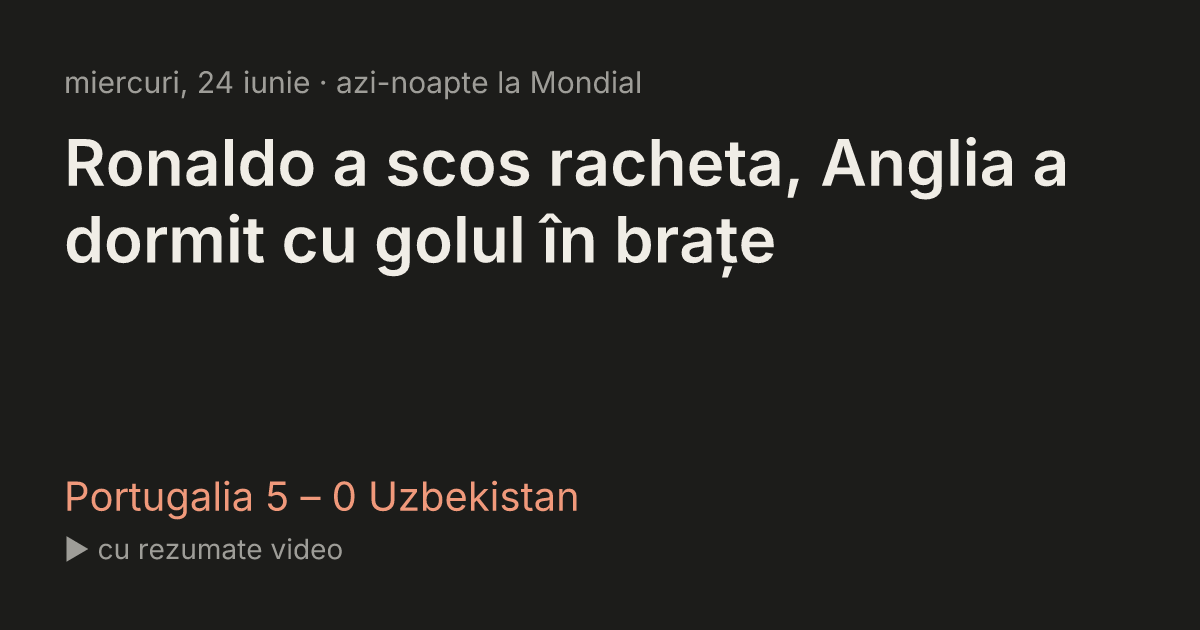
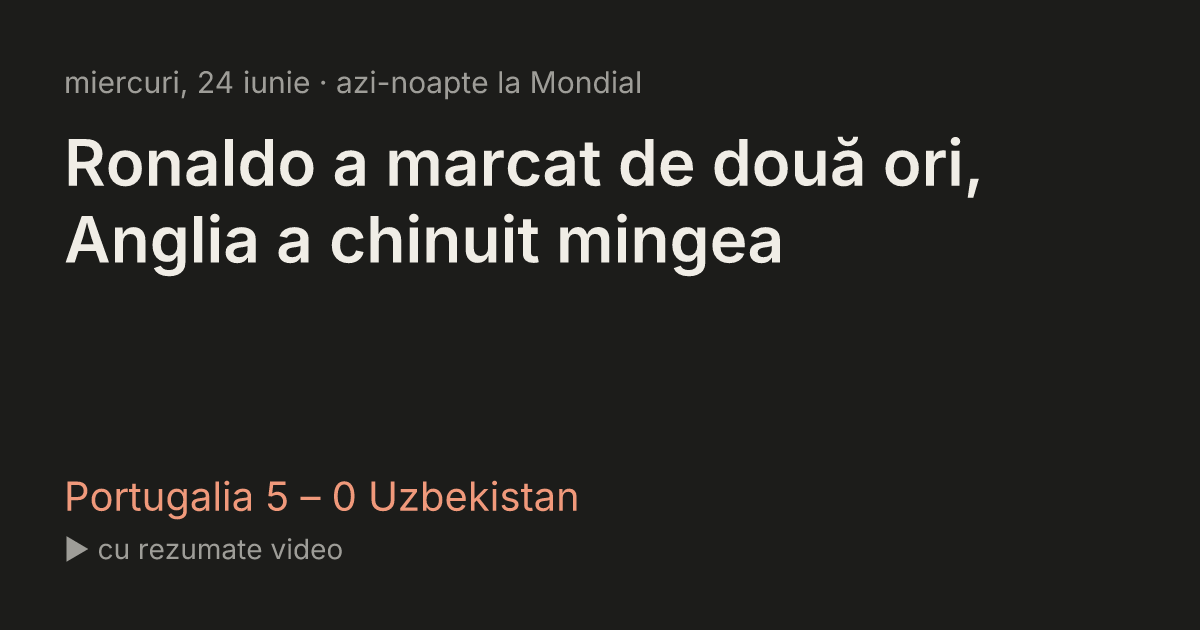
digest: 2026-06-24

Changed region(s): [[0.0308, 0.3317, 0.6475, 0.4524], [0.3083, 0.2111, 0.8942, 0.3317]]

diff --git a/site/index.html b/site/index.html
@@ -5,8 +5,8 @@
   <meta name="viewport" content="width=device-width, initial-scale=1.0" />
   <title>Mondialul de dimineață</title>
   <!-- og:start -->
-  <meta property="og:title" content="Ronaldo a scos racheta, Anglia a dormit cu golul în brațe" />
-  <meta property="og:description" content="Portugalia a făcut instrucție cu Uzbekistanul, Ronaldo bifând o dublă pe tabelă. În schimb, Anglia a arătat că posesia nu înseamnă puncte, remizând alb cu Ghana." />
+  <meta property="og:title" content="Ronaldo a marcat de două ori, Anglia a chinuit mingea" />
+  <meta property="og:description" content="Portugalia a defilat cu Uzbekistan, unde Cristiano Ronaldo a reușit o dublă, în timp ce Anglia a demonstrat că posesia nu aduce întotdeauna goluri, remizând alb cu Ghana. Croația și Columbia au obținut victorii strânse, încheind o zi cu puține surprize majore." />
   <meta property="og:image" content="https://mcandea04.github.io/mondial/data/og/2026-06-24.png" />
   <meta property="og:url" content="https://mcandea04.github.io/mondial/" />
   <meta property="og:type" content="website" />
